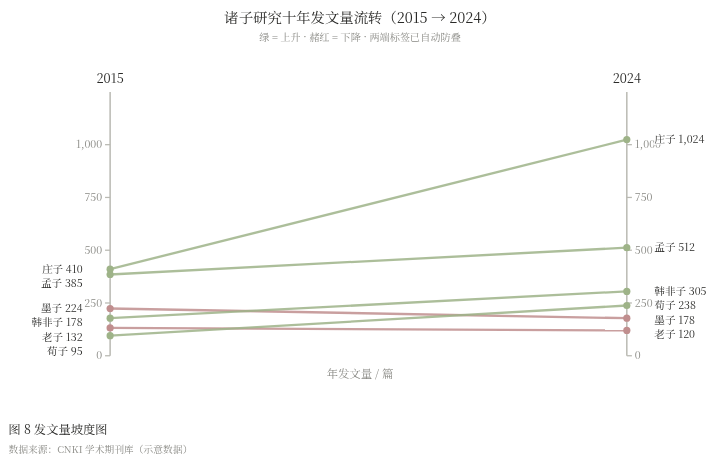
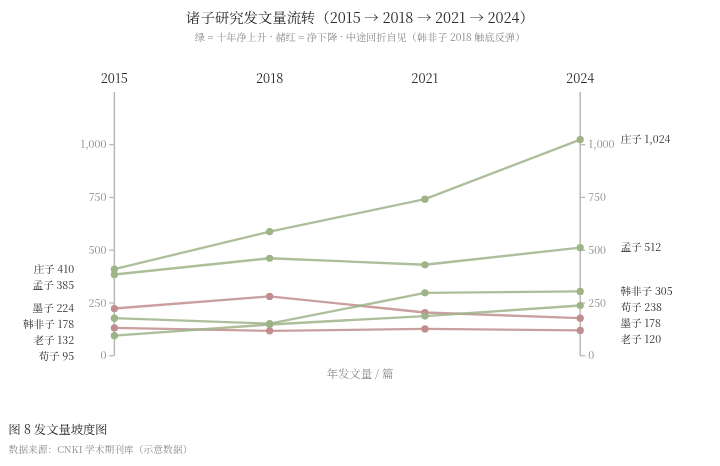
fix: 坡度图升级——四时间断面折线样例（升跌曲折）、端点标签外移防撞刻度

diff --git a/src/charts/slope.js b/src/charts/slope.js
@@ -23,7 +23,7 @@ export function draw(svg, data, o = {}) {
 
   const all = S.flatMap(s => s.values);
   const Y = niceTicks(0, Math.max(...all) * 1.06 + .001, 5);
-  const box = { x: 26, y: top + 12, w: W - 48, h: H - top - 12 - footH };
+  const box = { x: 27, y: top + 12, w: W - 60, h: H - top - 12 - footH };
   const val = linear(Y.lo, Y.hi, box.y + box.h, box.y);
   const xs = T.map((_, i) => box.x + box.w * i / (T.length - 1));
 
@@ -45,7 +45,7 @@ export function draw(svg, data, o = {}) {
   /* 端点标签防叠：按目标侧排序后强制最小间距 */
   const place = (sideIdx, anchor, tx) => {
     const items = S.map(s => ({ s, y: val(s.values[sideIdx]) })).sort((a, b) => a.y - b.y);
-    const minGap = 3.4;
+    const minGap = 3.8;
     items.forEach((it, k) => {
       if (k > 0 && it.y < items[k - 1].y + minGap) it.y = items[k - 1].y + minGap;
     });
@@ -56,7 +56,7 @@ export function draw(svg, data, o = {}) {
       });
     });
   };
-  if (o.labels !== false) { place(0, 'end', box.x - 6.5); place(T.length - 1, 'start', box.x + box.w + 6.5); }
+  if (o.labels !== false) { place(0, 'end', box.x - 9.5); place(T.length - 1, 'start', box.x + box.w + 9.5); }
 
   /* 连线：升/降/平 三色 */
   S.forEach(s => {
